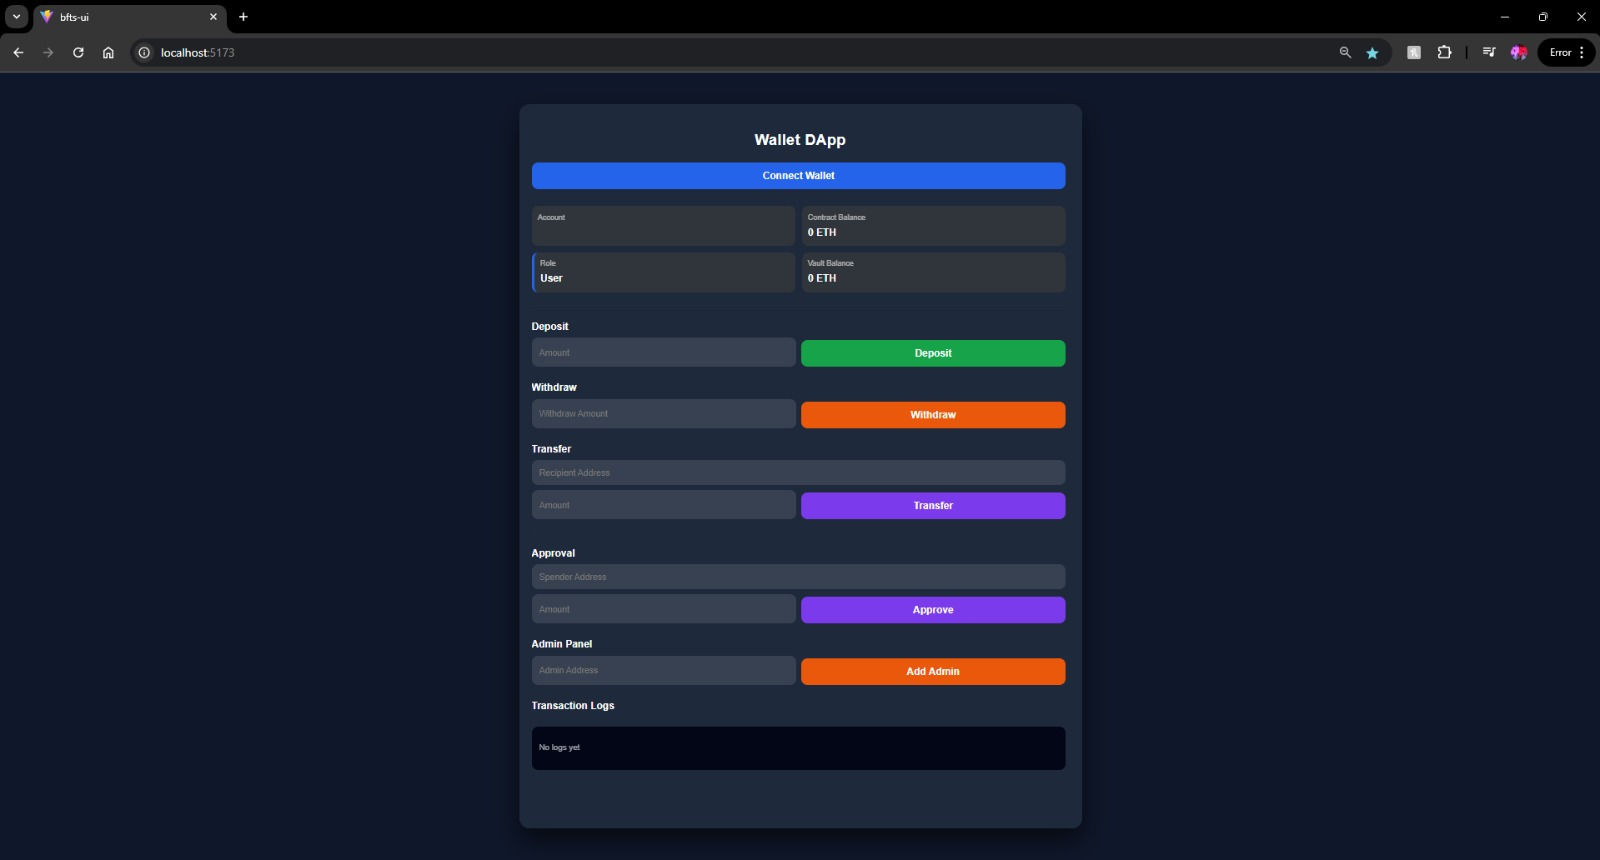
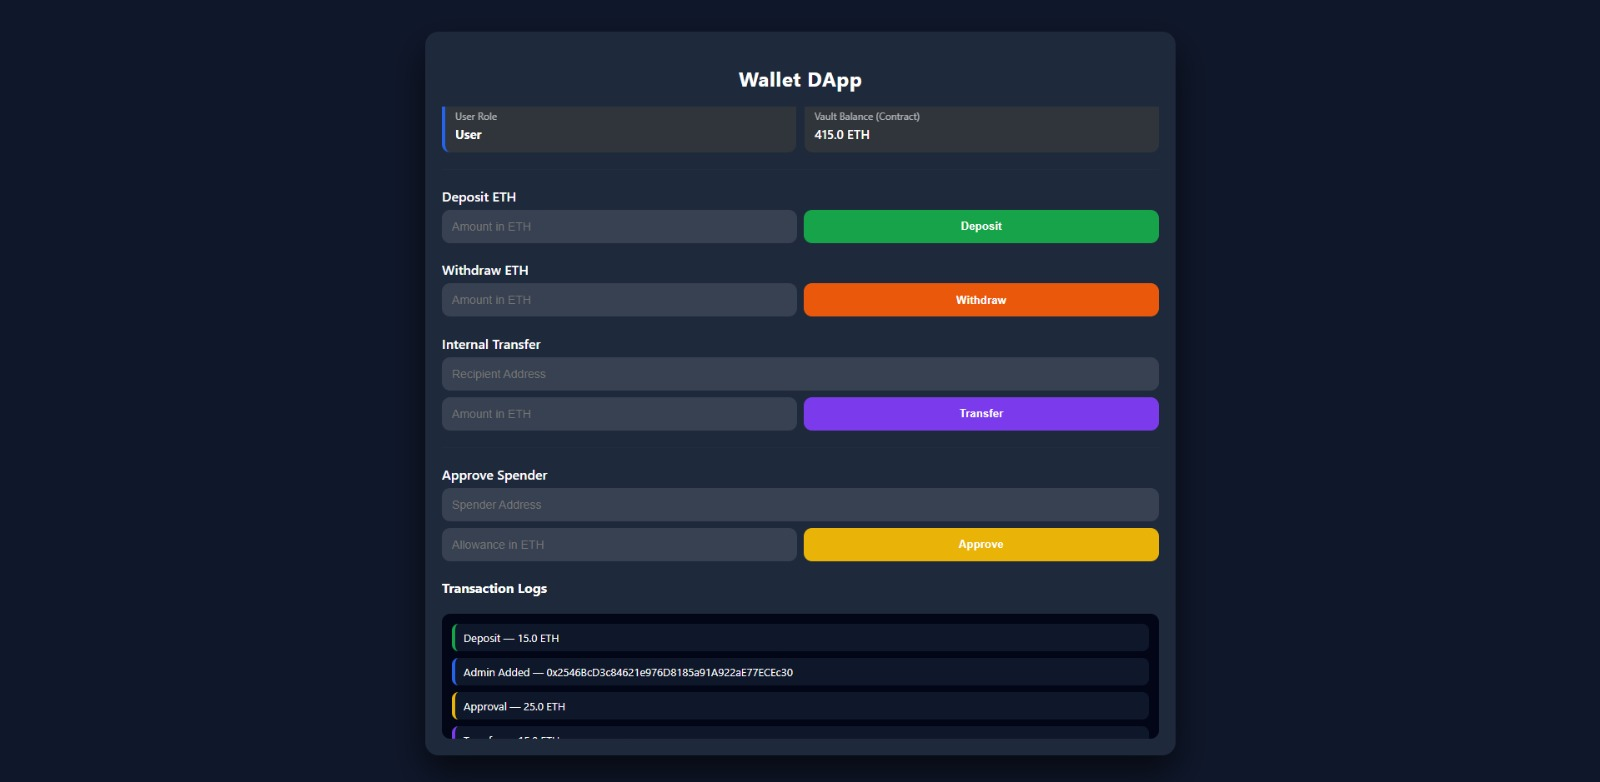
updated images of ui

Changed region(s): [[0.25, 0.0921, 0.75, 0.9821], [0.0, 0.0, 1.0, 0.0921]]

diff --git a/README.md b/README.md
@@ -240,3 +240,7 @@ After adding:
 ### Admin Panel
 
 ![Admin](screenshots/adminadded.jpeg)
+
+### Transaction Logs
+
+![Logs](screenshots/logsui.jpeg)
